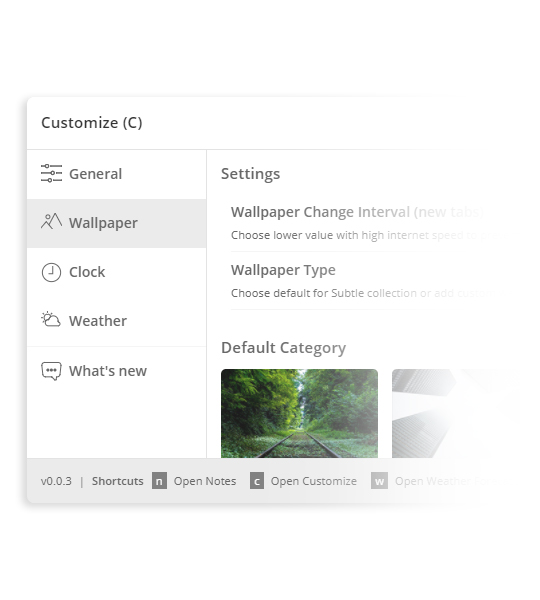
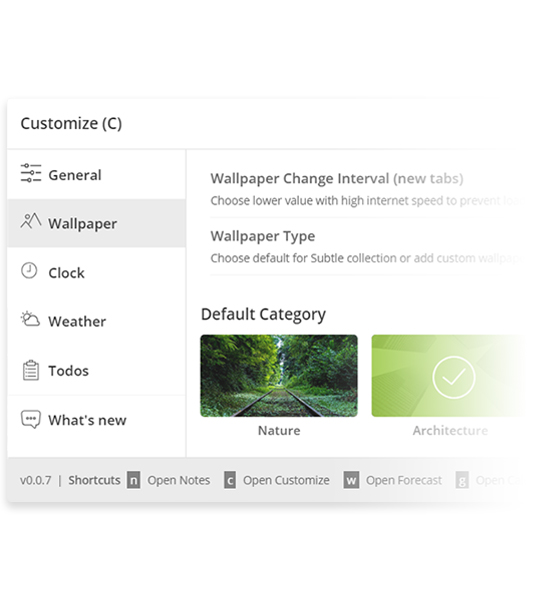
feat(Todos): Add todo on home

diff --git a/src/components/FeatureNavbar.vue b/src/components/FeatureNavbar.vue
@@ -7,6 +7,12 @@
         </svg>
         <p class="font-black">Wallpapers</p>
       </li>
+      <li @click="scrollTo('todos')" class="flex flex-center flex-justify-center" :class="{active: activeTab === 'todos'}">
+        <svg viewBox="0 0 512 512" class="fill">
+          <use xlink:href="#icon-todos"></use>
+        </svg>
+        <p class="font-black">Todos</p>
+      </li>
       <li @click="scrollTo('notes')" class="flex flex-center flex-justify-center" :class="{active: activeTab === 'notes'}">
         <svg viewBox="0 0 58.27 58.27" class="fill">
           <use xlink:href="#icon-notes"></use>
@@ -74,6 +80,16 @@
             d="M26.845,29.709c0.18-0.189,0.29-0.45,0.29-0.71s-0.11-0.52-0.29-0.71c-0.38-0.37-1.05-0.37-1.42,0   c-0.18,0.19-0.29,0.45-0.29,0.71c0,0.271,0.11,0.521,0.29,0.71c0.19,0.181,0.45,0.29,0.71,0.29   C26.395,29.999,26.656,29.89,26.845,29.709z"/>
           <path
             d="M26.135,56h-23V8h7v2c0,0.553,0.448,1,1,1h23c0.552,0,1-0.447,1-1V8h7v22c0,0.553,0.448,1,1,1s1-0.447,1-1V7   c0-0.553-0.448-1-1-1h-8V4c0-0.553-0.448-1-1-1h-6V1c0-0.553-0.448-1-1-1h-9c-0.552,0-1,0.447-1,1v2h-6c-0.552,0-1,0.447-1,1v2h-8   c-0.552,0-1,0.447-1,1v50c0,0.553,0.448,1,1,1h24c0.552,0,1-0.447,1-1S26.688,56,26.135,56z M19.135,2h7v2v2h-7V4V2z M12.135,5h5v2   c0,0.553,0.448,1,1,1h9c0.552,0,1-0.447,1-1V5h5v2v2h-21V7V5z"/>
+        </g>
+        <g id="icon-todos">
+          <path
+            d="M370,95.4V53.9h-62.2V12.5H204.2v41.5H142v41.5H69.5v404.1h373.1V95.4H370z M224.9,33.2h62.2v20.7h-62.2V33.2z M162.7,74.7h186.5v62.2H162.7V74.7z M421.8,478.8H90.2V116.1H142v41.4h228v-41.4h51.8V478.8z"/>
+          <rect width="20.7" x="131.6" y="222.8" height="20.7"/>
+          <rect width="20.7" x="131.6" y="307.8" height="20.7"/>
+          <rect width="20.7" x="131.6" y="393.8" height="20.7"/>
+          <rect width="207.3" x="173.1" y="222.8" height="20.7"/>
+          <rect width="207.3" x="173.1" y="307.8" height="20.7"/>
+          <rect width="207.3" x="173.1" y="393.8" height="20.7"/>
         </g>
       </defs>
     </svg>

diff --git a/src/assets/data/feature.js b/src/assets/data/feature.js
@@ -5,6 +5,15 @@ export const wallpapers = {
   id: 'wallpaper',
   imgAlt: 'wallpapers in subtle tab'
 };
+export const todos = {
+  desc: 'Worried about various tasks? Create to-dos to keep track of your items easily. It comes with Todoist and Wunderlist integrations.' +
+    '<br><a href="https://youtu.be/XCTXKmQokCc" target="_blank" class="btn-block mt-10">Integrate Todoist > </a>' +
+    '<a href="https://youtu.be/r6JKu77Ildc" target="_blank" class="btn-block mt-10">Integrate Wunderlist > </a>',
+  heading: 'Todos Widget',
+  img: 'todo.jpg',
+  id: 'todos',
+  imgAlt: 'todos to manage daily tasks'
+};
 export const notes = {
   desc: 'Got some ideas running through your mind? Jot them down before you forget. It has multi-list and rich-text support.',
   heading: 'Notes Widget',

diff --git a/src/components/FeatureWrapper.vue b/src/components/FeatureWrapper.vue
@@ -10,7 +10,7 @@
       :img="feature.img"
       :id="feature.id"
       :imgAlt="feature.imgAlt"
-      :contentRight="isEven($index)"
+      :contentRight="isOdd($index)"
     />
   </div>
 </template>
@@ -26,8 +26,8 @@
       }
     },
     methods: {
-      isEven(num) {
-        return num % 2 === 0
+      isOdd(num) {
+        return num % 2 !== 0;
       }
     },
     components: {
